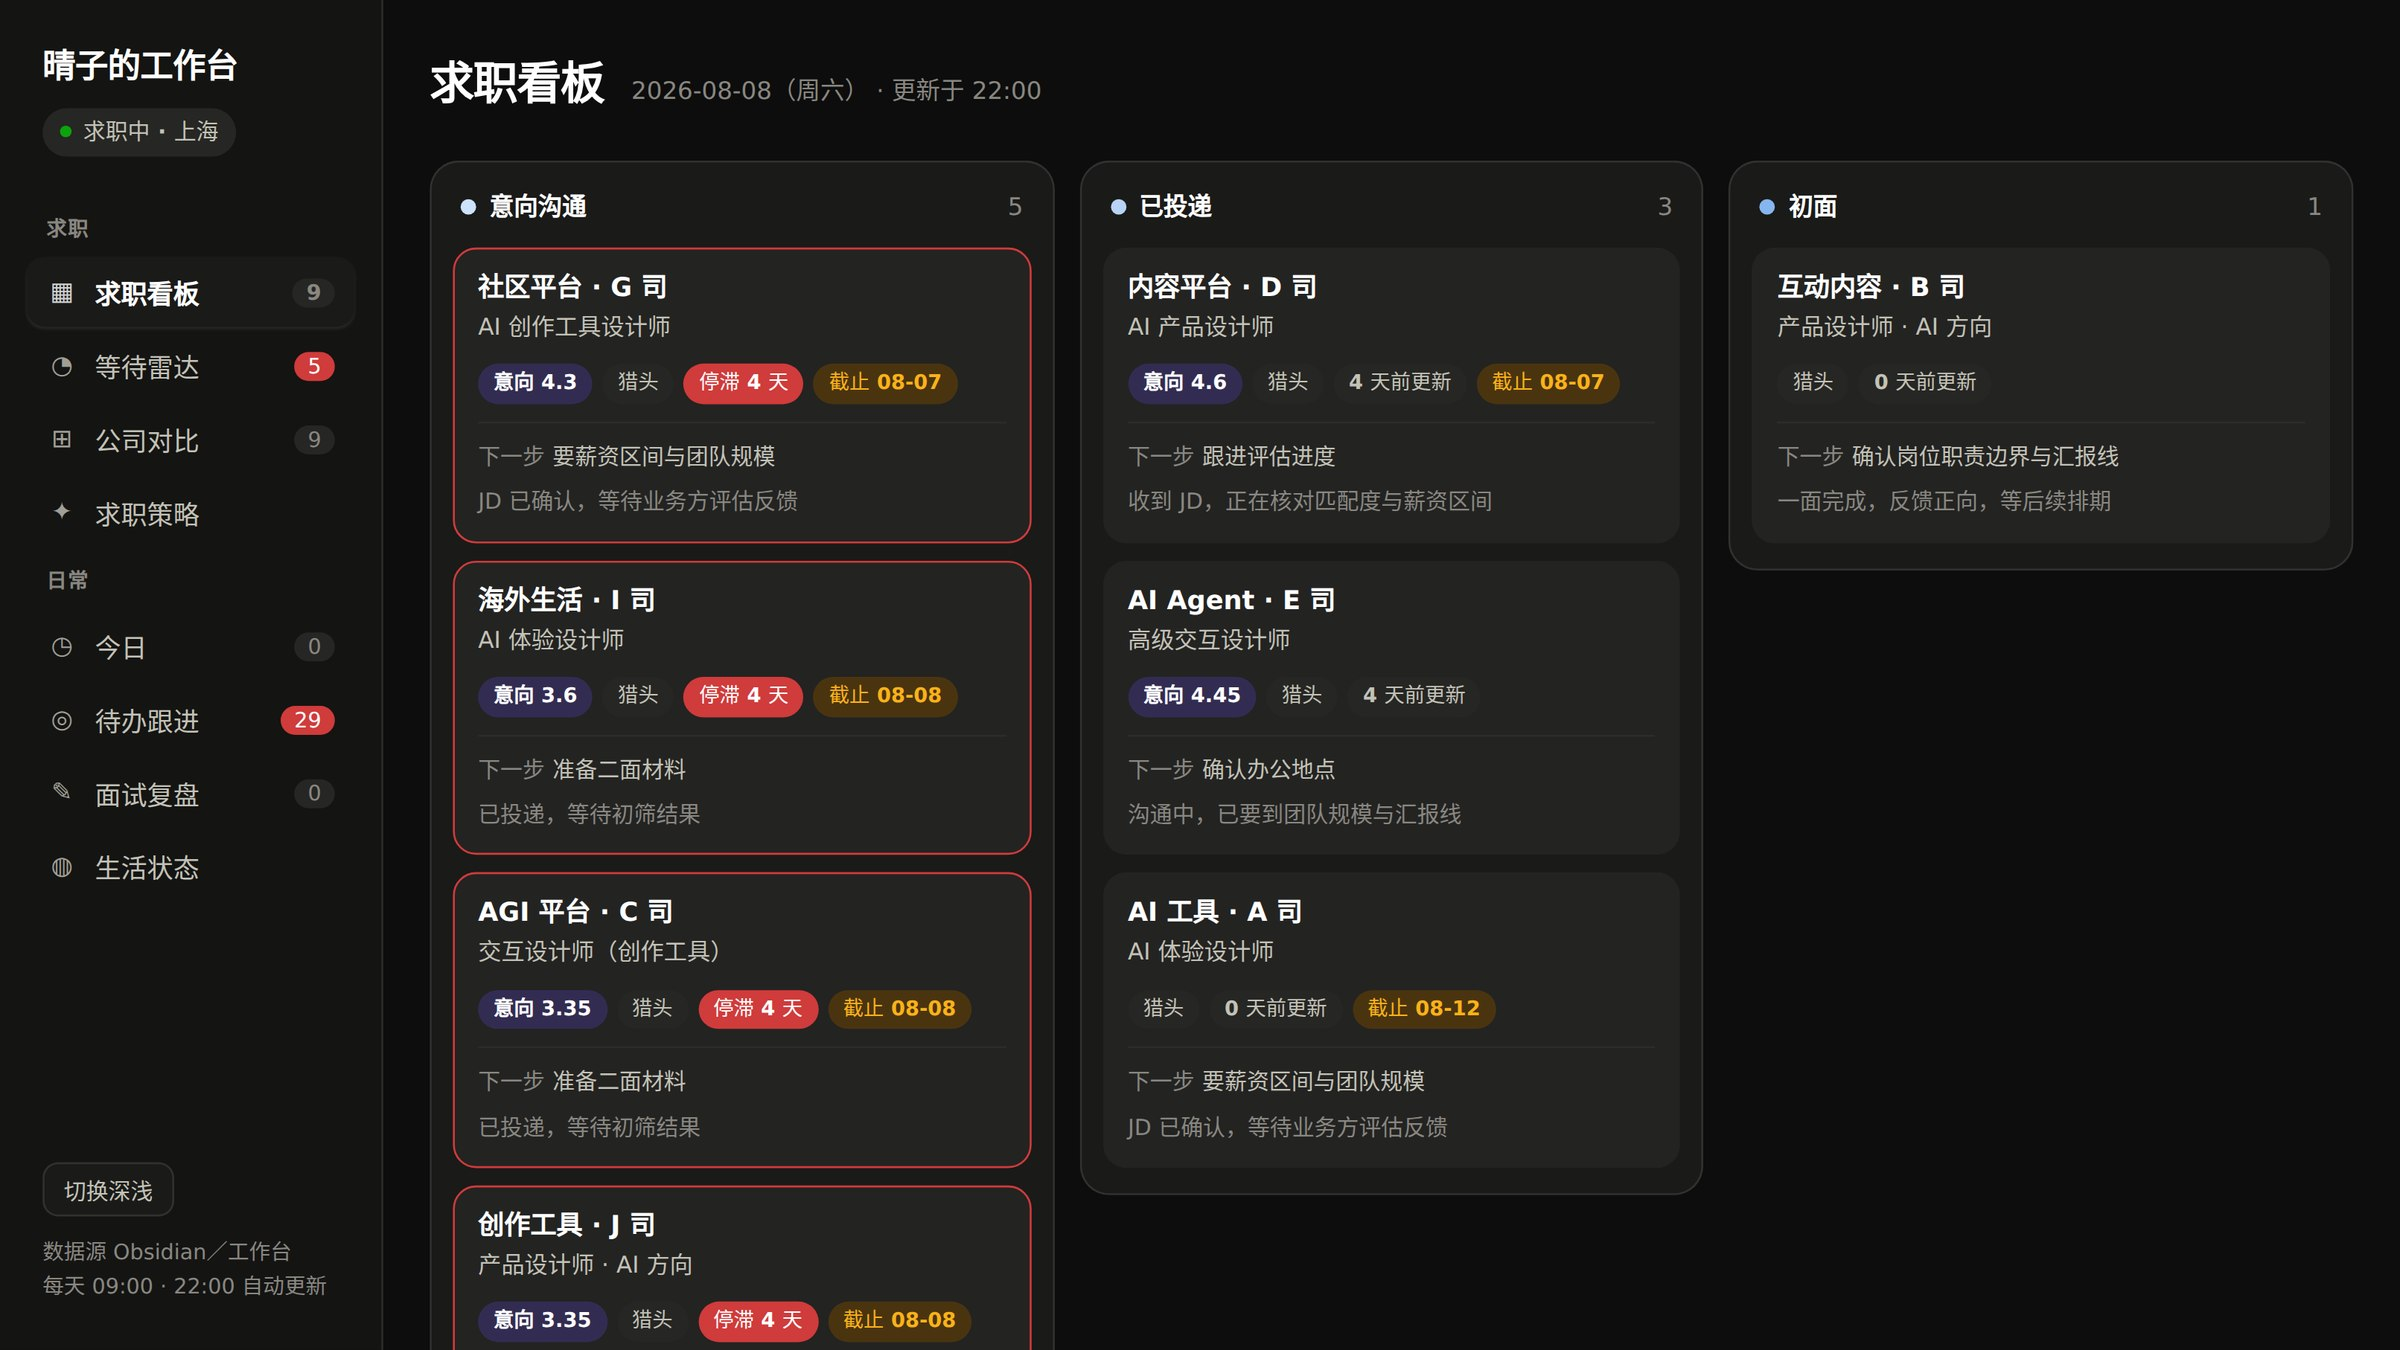
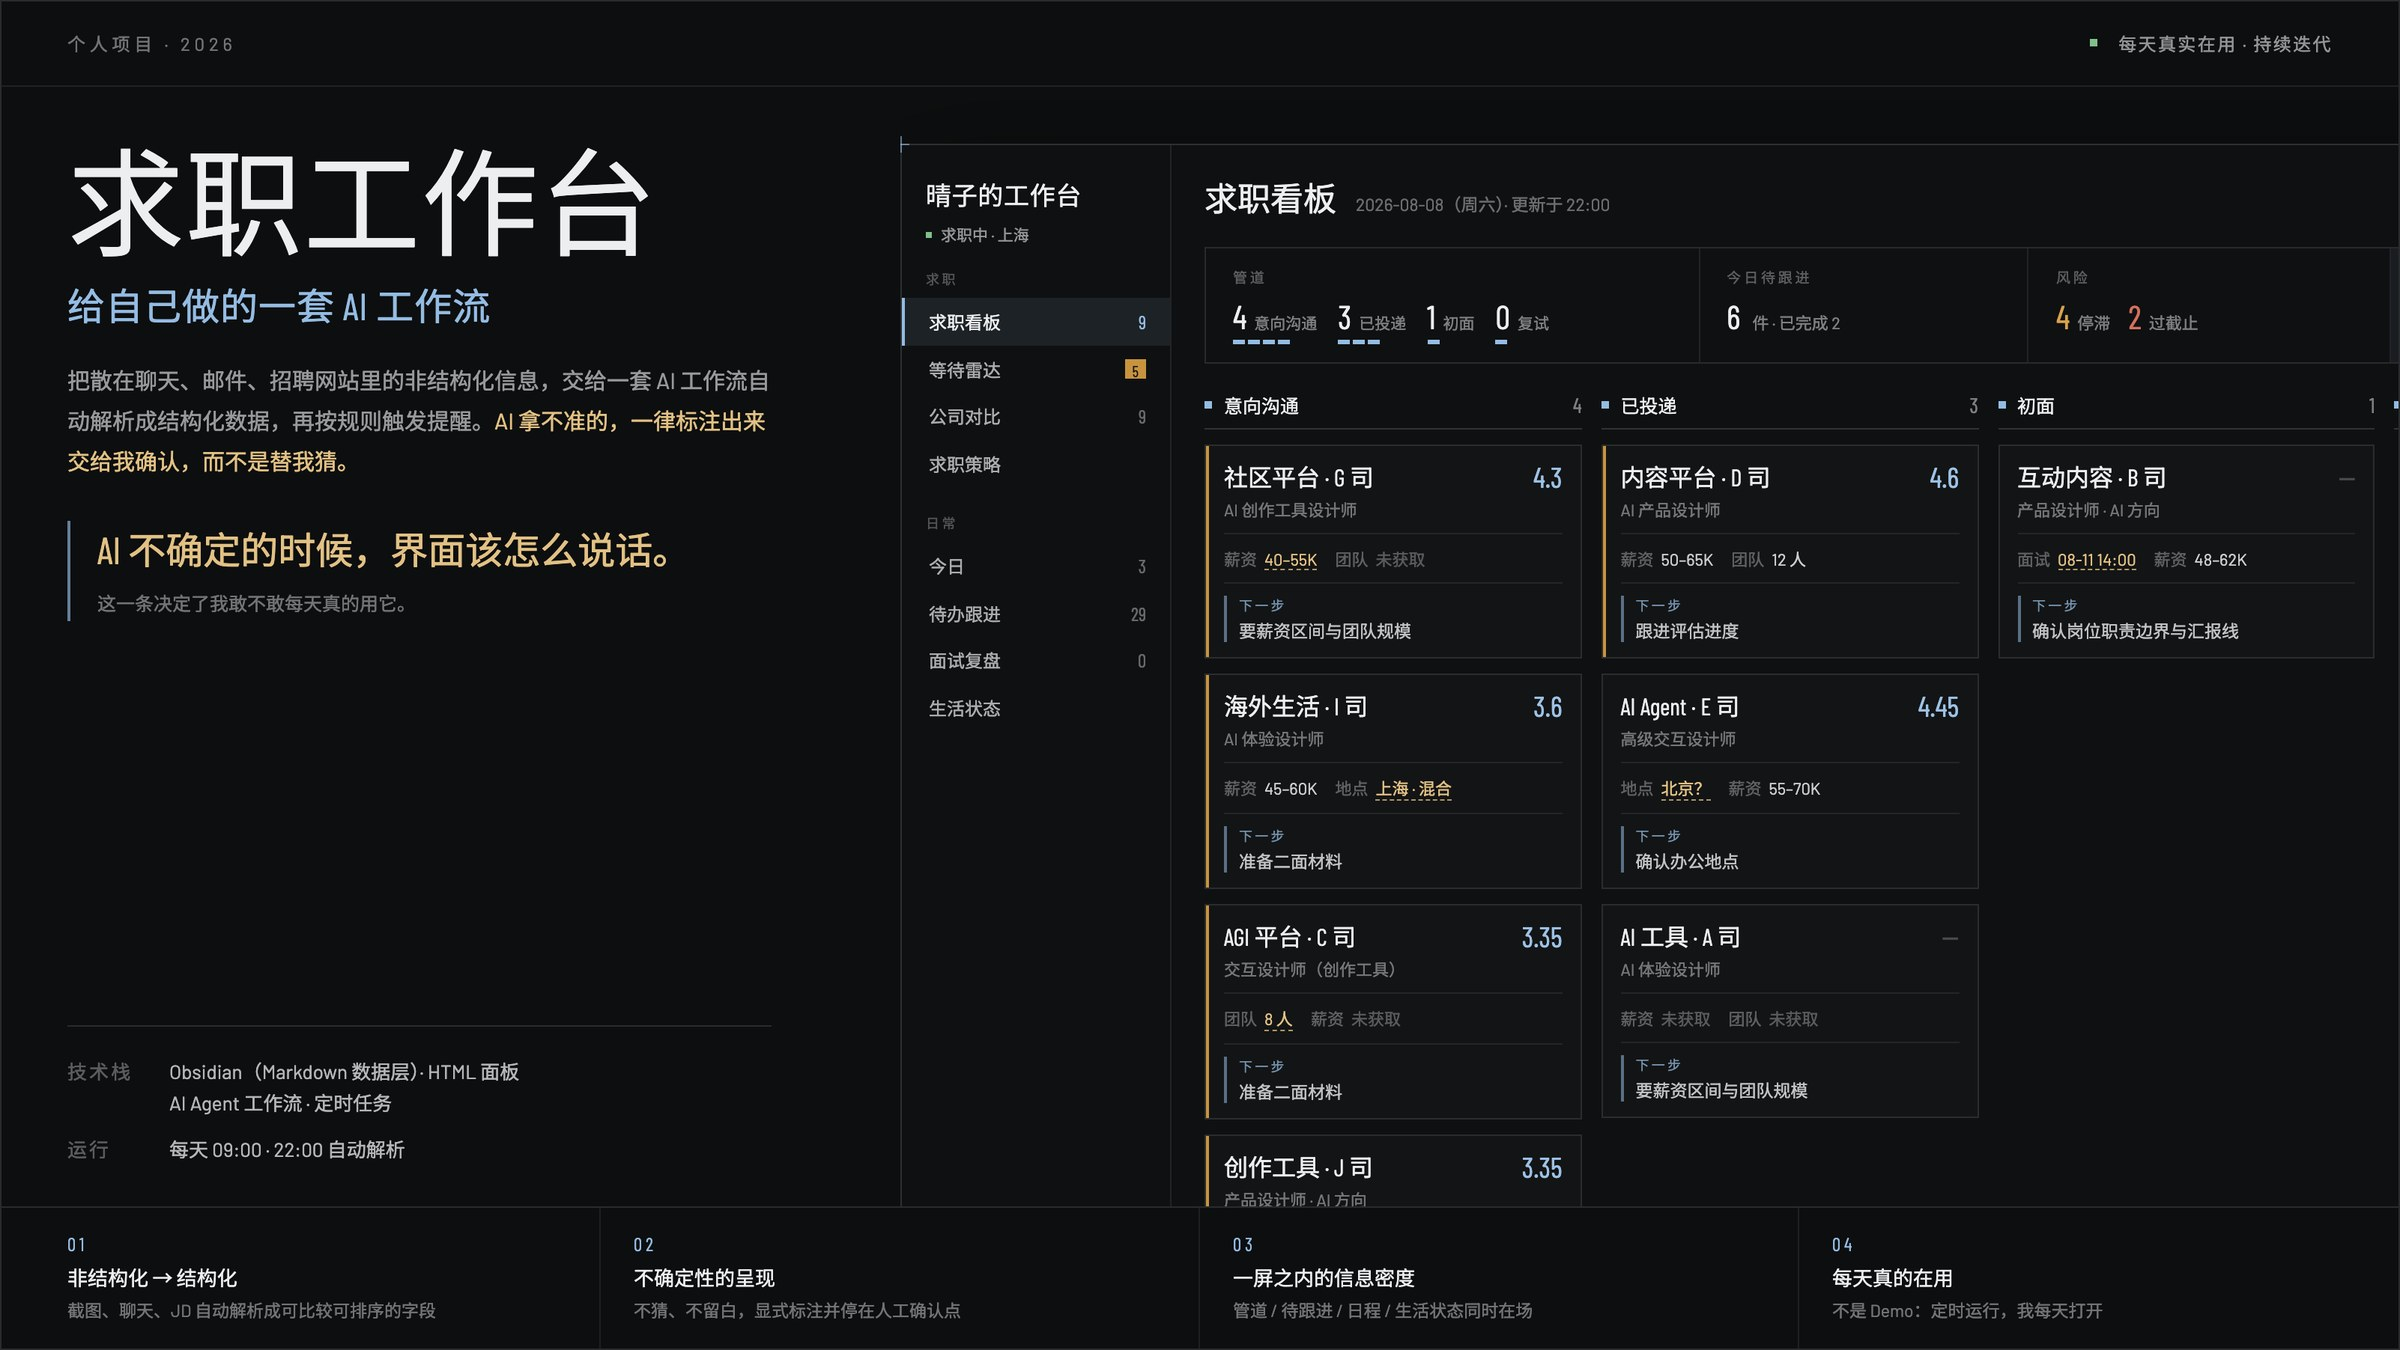
作品集设计岗版定稿 + 简历与封面更新

diff --git a/portfolio-site/src/components/Hero.jsx b/portfolio-site/src/components/Hero.jsx
@@ -68,7 +68,7 @@ export default function Hero({ content, lang }) {
             </a>
             <a
               href={lang === 'zh' ? '/cv.pdf' : '/cv-en.pdf'}
-              download={lang === 'zh' ? '郑雨晴-交互设计师.pdf' : 'Yuqing-Zheng-Interaction-Designer.pdf'}
+              download={lang === 'zh' ? '郑雨晴-交互设计师-简历.pdf' : 'Yuqing-Zheng-Interaction-Designer-CV.pdf'}
               onClick={handleCvClick}
               target="_blank"
               rel="noopener noreferrer"
